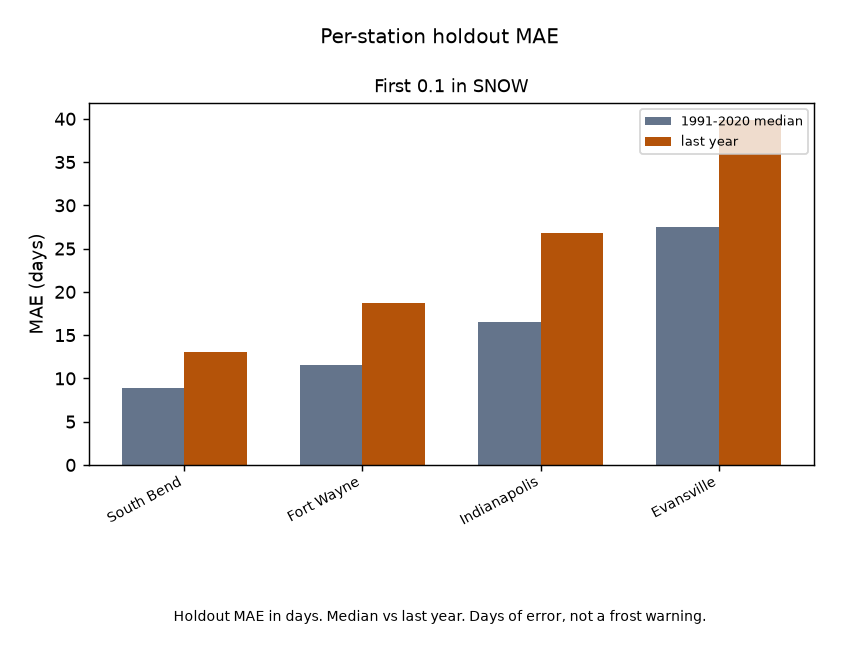
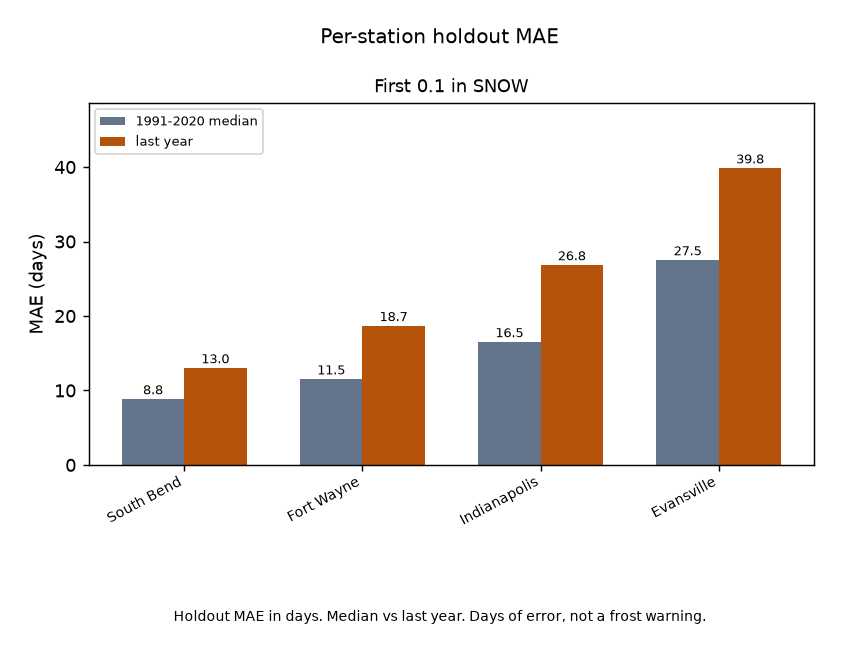
Restamp README figures so the locked finding is readable.
Keep science JSON unchanged. Bars and maps now carry the contest
(RMSE vs yesterday, CPC vs equal chance, two-answer Re-TRAC, fixture
HWM titles). Captions stay claim-scanned.

diff --git a/src/snowdate/figure.py b/src/snowdate/figure.py
@@ -72,6 +72,10 @@ def write_scatter(dest: Path, *, fit: dict[str, Any], title: str, subtitle: str)
     return dest
 
 
+def _fmt_mae(v: float) -> str:
+    return f"{float(v):.1f}"
+
+
 def draw_bars(fit: dict[str, Any], *, title: str, subtitle: str):
     import matplotlib
 
@@ -85,14 +89,18 @@ def draw_bars(fit: dict[str, Any], *, title: str, subtitle: str):
     fig, ax = plt.subplots(figsize=(7.2, 4.8))
     med = [by_st[sid][FIRST_SNOW]["median"]["mae_days"] for sid in order]
     ly = [by_st[sid][FIRST_SNOW]["last_year"]["mae_days"] for sid in order]
-    ax.bar(x - width / 2, med, width, color="#64748b", label="1991-2020 median")
-    ax.bar(x + width / 2, ly, width, color="#b45309", label="last year")
+    c0 = ax.bar(x - width / 2, med, width, color="#64748b", label="1991-2020 median")
+    c1 = ax.bar(x + width / 2, ly, width, color="#b45309", label="last year")
+    ax.bar_label(c0, labels=[_fmt_mae(v) for v in med], fontsize=7, padding=1)
+    ax.bar_label(c1, labels=[_fmt_mae(v) for v in ly], fontsize=7, padding=1)
     ax.set_xticks(x)
     ax.set_xticklabels(labels, fontsize=8, rotation=28, ha="right")
     ax.set_ylabel("MAE (days)")
     ax.set_title("First 0.1 in SNOW", fontsize=10)
-    ax.legend(fontsize=7, loc="upper right")
+    ax.legend(fontsize=7, loc="upper left")
     ax.tick_params(axis="x", pad=2)
+    hi = max(max(med), max(ly)) if order else 1.0
+    ax.set_ylim(0, hi * 1.22)
     fig.suptitle(title, fontsize=11)
     fig.subplots_adjust(bottom=0.28, top=0.86)
     fig.text(0.5, 0.03, subtitle, ha="center", fontsize=8)
